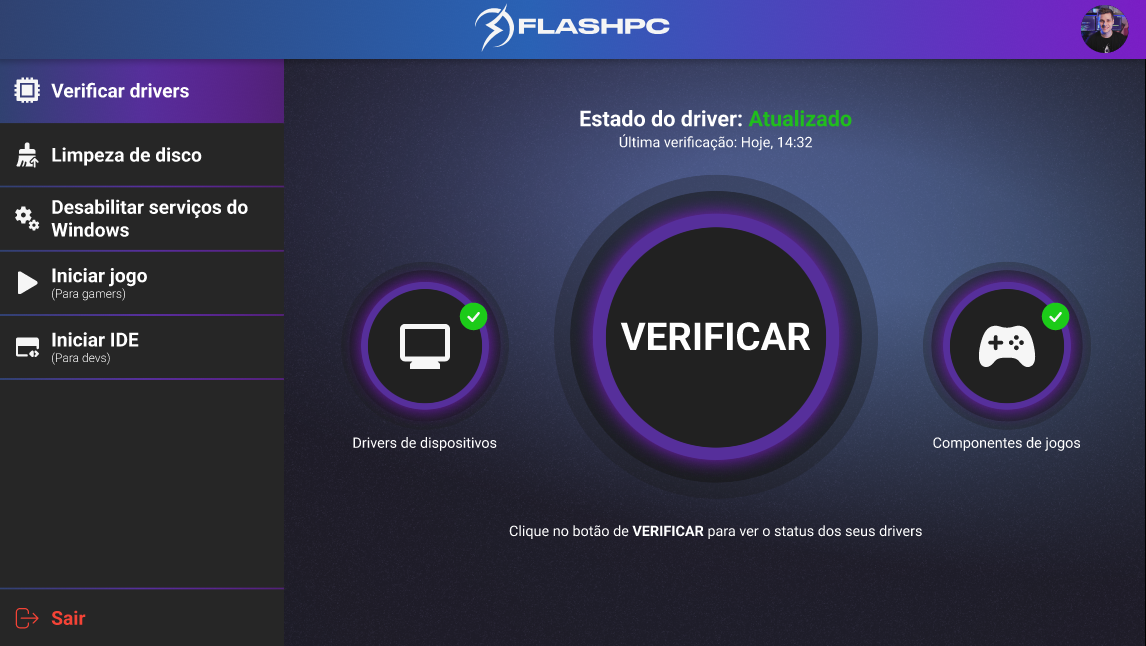
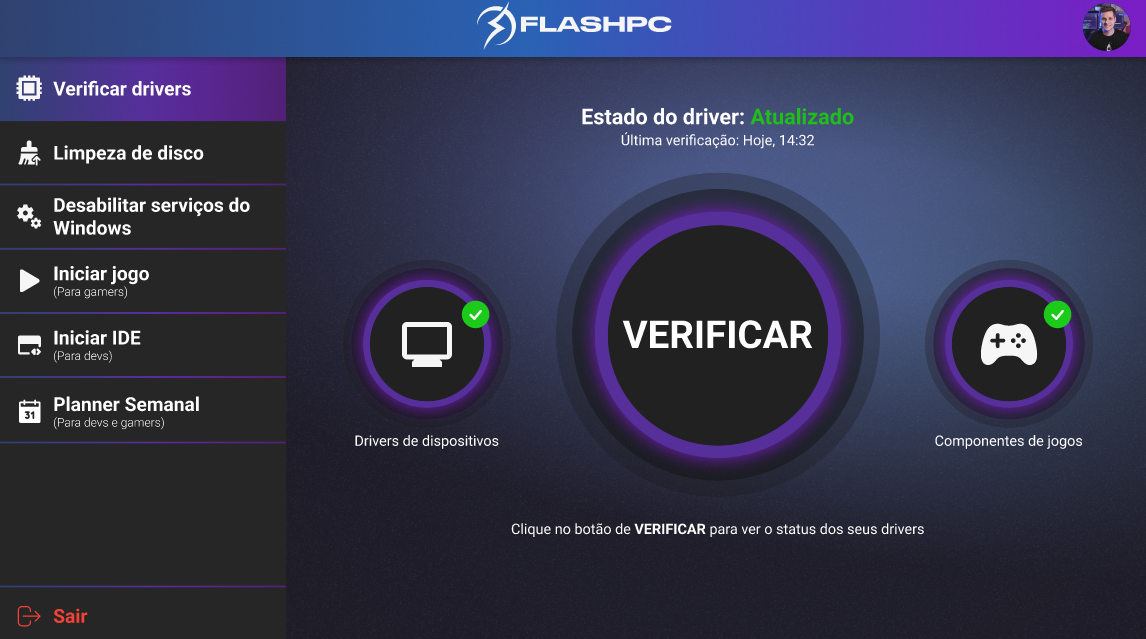
Update elements of page and README.md

diff --git a/index.html b/index.html
@@ -89,17 +89,23 @@
             <div class="card">
               <i class="icon-speed"></i>
               <h3 class="title">Máximo desempenho</h3>
-              <p>Boosters personalizados para o seu computador.</p>
+              <p>
+                Obtenha sempre o melhor desempenho trabalhando ou jogando, mantendo seu computador e
+                metas organizadas.
+              </p>
             </div>
             <div class="card">
               <i class="icon-users"></i>
               <h3 class="title">Jogue com amigos</h3>
-              <p>Entre em partidas online! Não instalamos hacks.</p>
+              <p>
+                Não tenha medo de ser banido de seu jogo ao entrar em partidas online! Não
+                instalamos hacks.
+              </p>
             </div>
             <div class="card">
               <i class="icon-inbox-check"></i>
               <h3 class="title">Suporte qualificado</h3>
-              <p>Estamos prontos para atendê-lo.</p>
+              <p>Estamos prontos para atendê-lo a qualquer hora do dia, contate-nos!</p>
             </div>
           </div>
         </div>
@@ -119,9 +125,9 @@
                 <blockquote>
                   <p>
                     <span>&ldquo;</span>
-                    Gostei muito de utilizar o FlashPC. Sou dev e também jogo CS nas horas vagas,
-                    serviu muito pra mim e tive um grande ganho de produtividade para desenvolver e
-                    um bom aumento de FPS na hora de jogar um pouco, show demais!
+                    Gostei muito de utilizar o FlashPC. Sou dev e gosto de manter sempre minhas,
+                    atividades organizadas e ter sempre em mãos uma lista do que fazer naquele dia
+                    de trabalho intenso, show demais, adorei! 😁
                   </p>
                   <cite>
                     <img src="assets/images/user-1.png" alt="Foto de Darllinson Azevedo" />

diff --git a/README.md b/README.md
@@ -30,9 +30,7 @@ Utilitários
 
 ## 💻 Projeto
 
-O projeto foi desenvolvido para a 3ª entrega do projeto de Marketing Digital do curso de Sistemas de Informação da Unifacisa.
-
-O FlashPC foi desenvolvido com o objetivo de potencializar a produtividade de milhares de jogadores profissionais e desenvolvedores, trazendo uma ferramenta completa que auxilia na otimização do sistema operacional para desktops mais utilizado no mundo, o Windows.
+O FlashPC foi desenvolvido com o objetivo de potencializar a produtividade de milhares de jogadores profissionais e desenvolvedores, trazendo uma ferramenta completa que auxilia na otimização do sistema operacional para desktops mais utilizado no mundo, o Windows e uma página onde você pode ter o controle de todas as suas atividades no dia a dia do trabalho, sendo desenvolvedor ou gamer _(quem sabe até os dois 🤷♂🤷♀)_.
 
 Você pode visitar o site [clicando aqui](https://darllinsonazvd.github.io/flashpc-app/)
 
